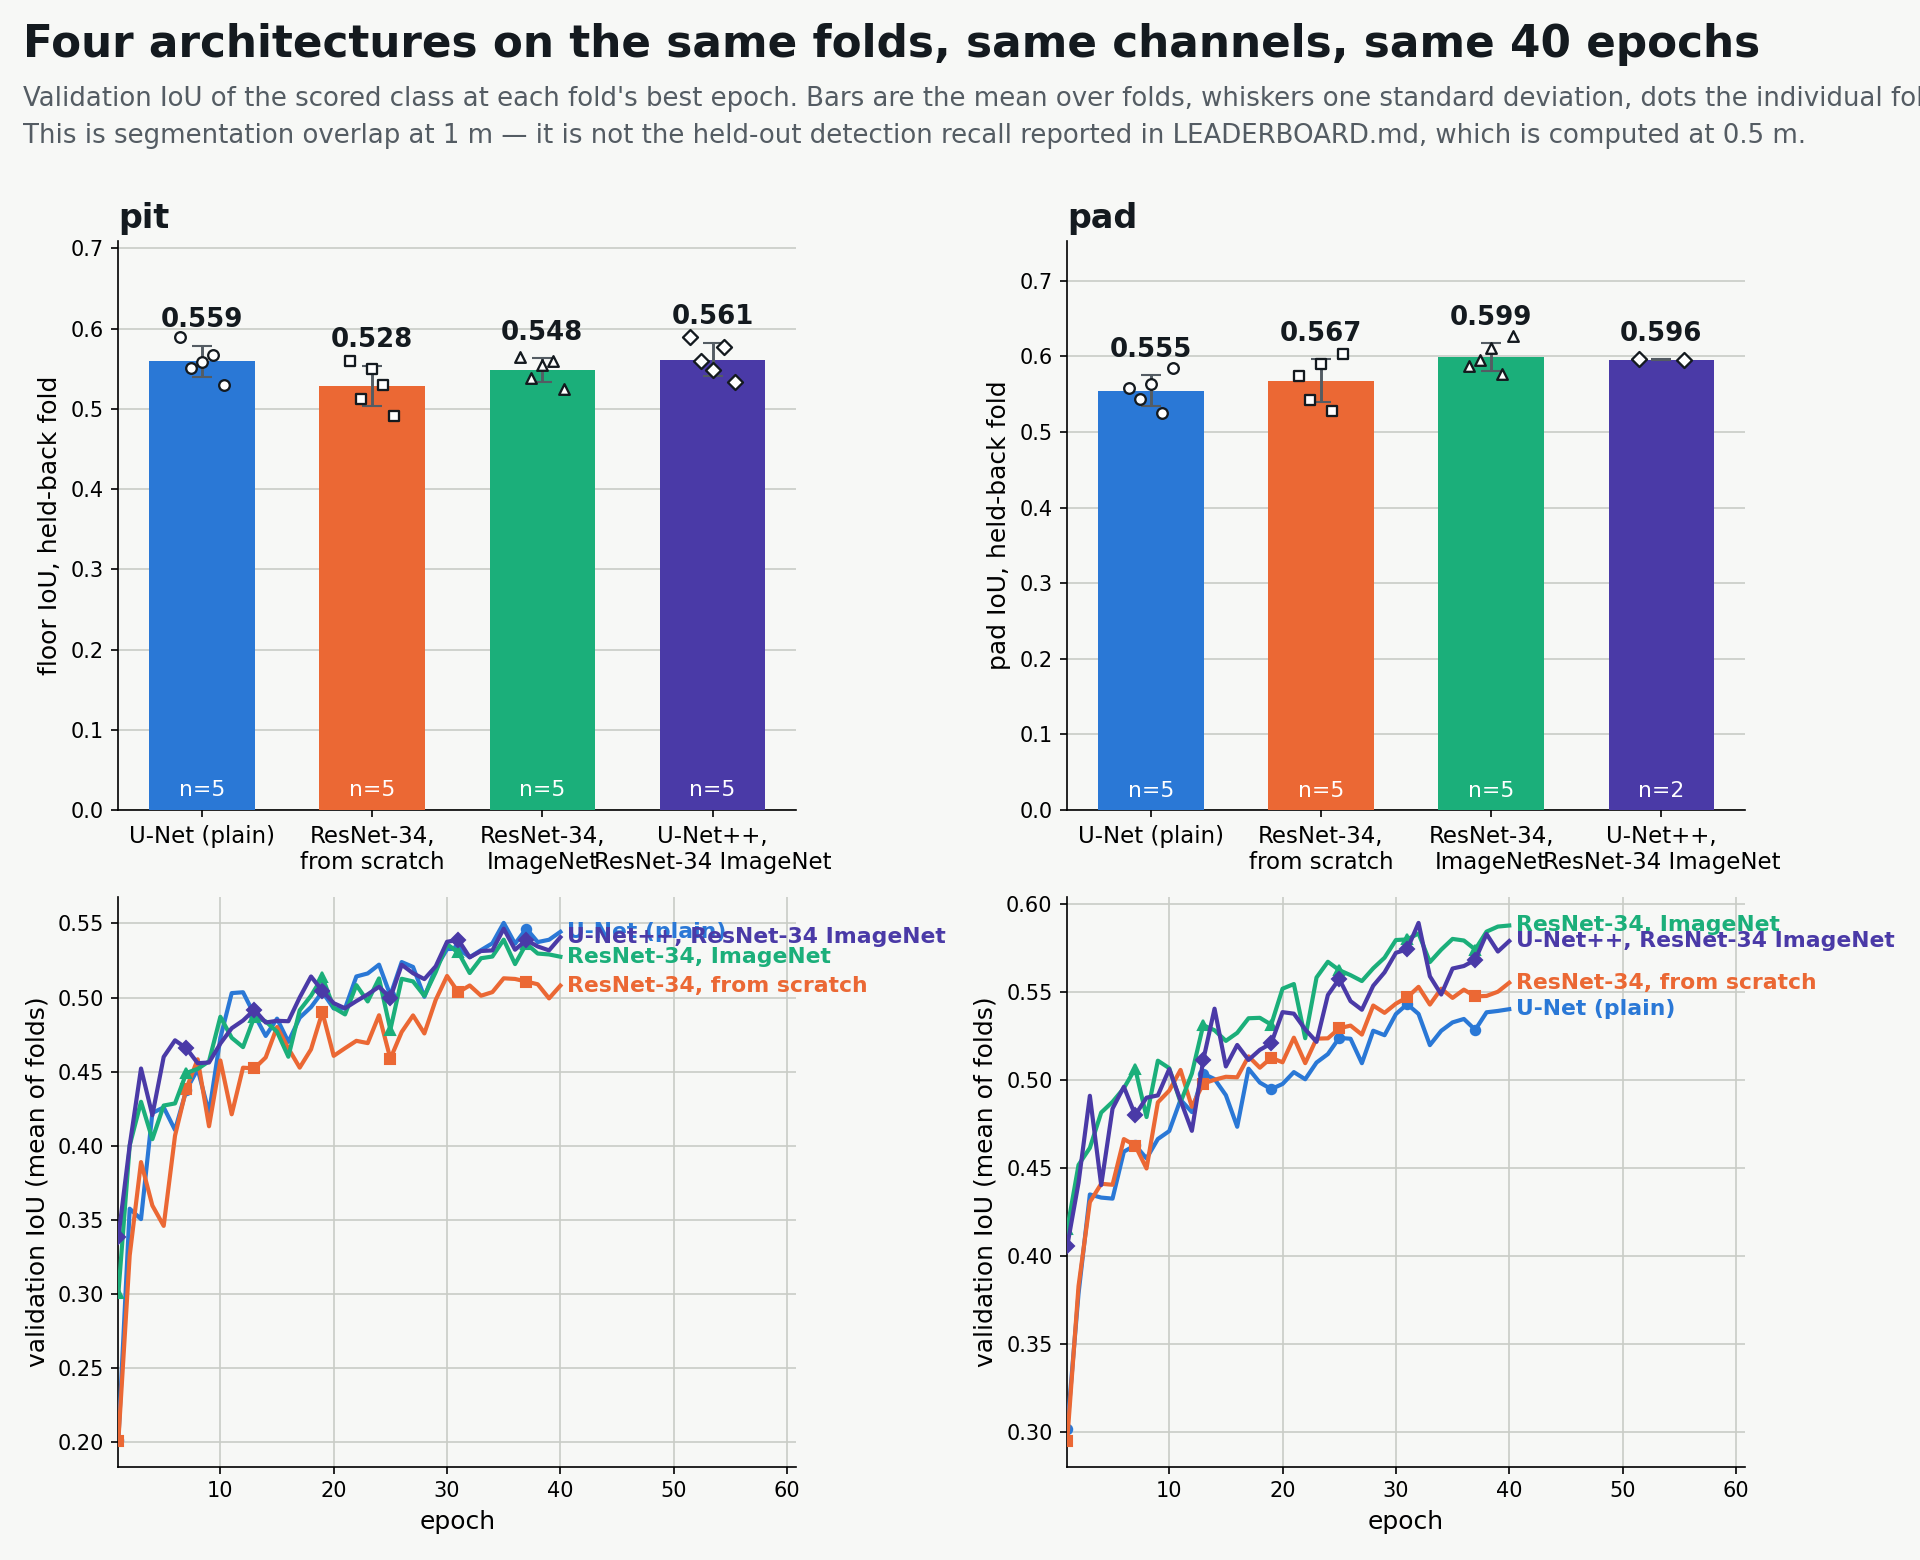
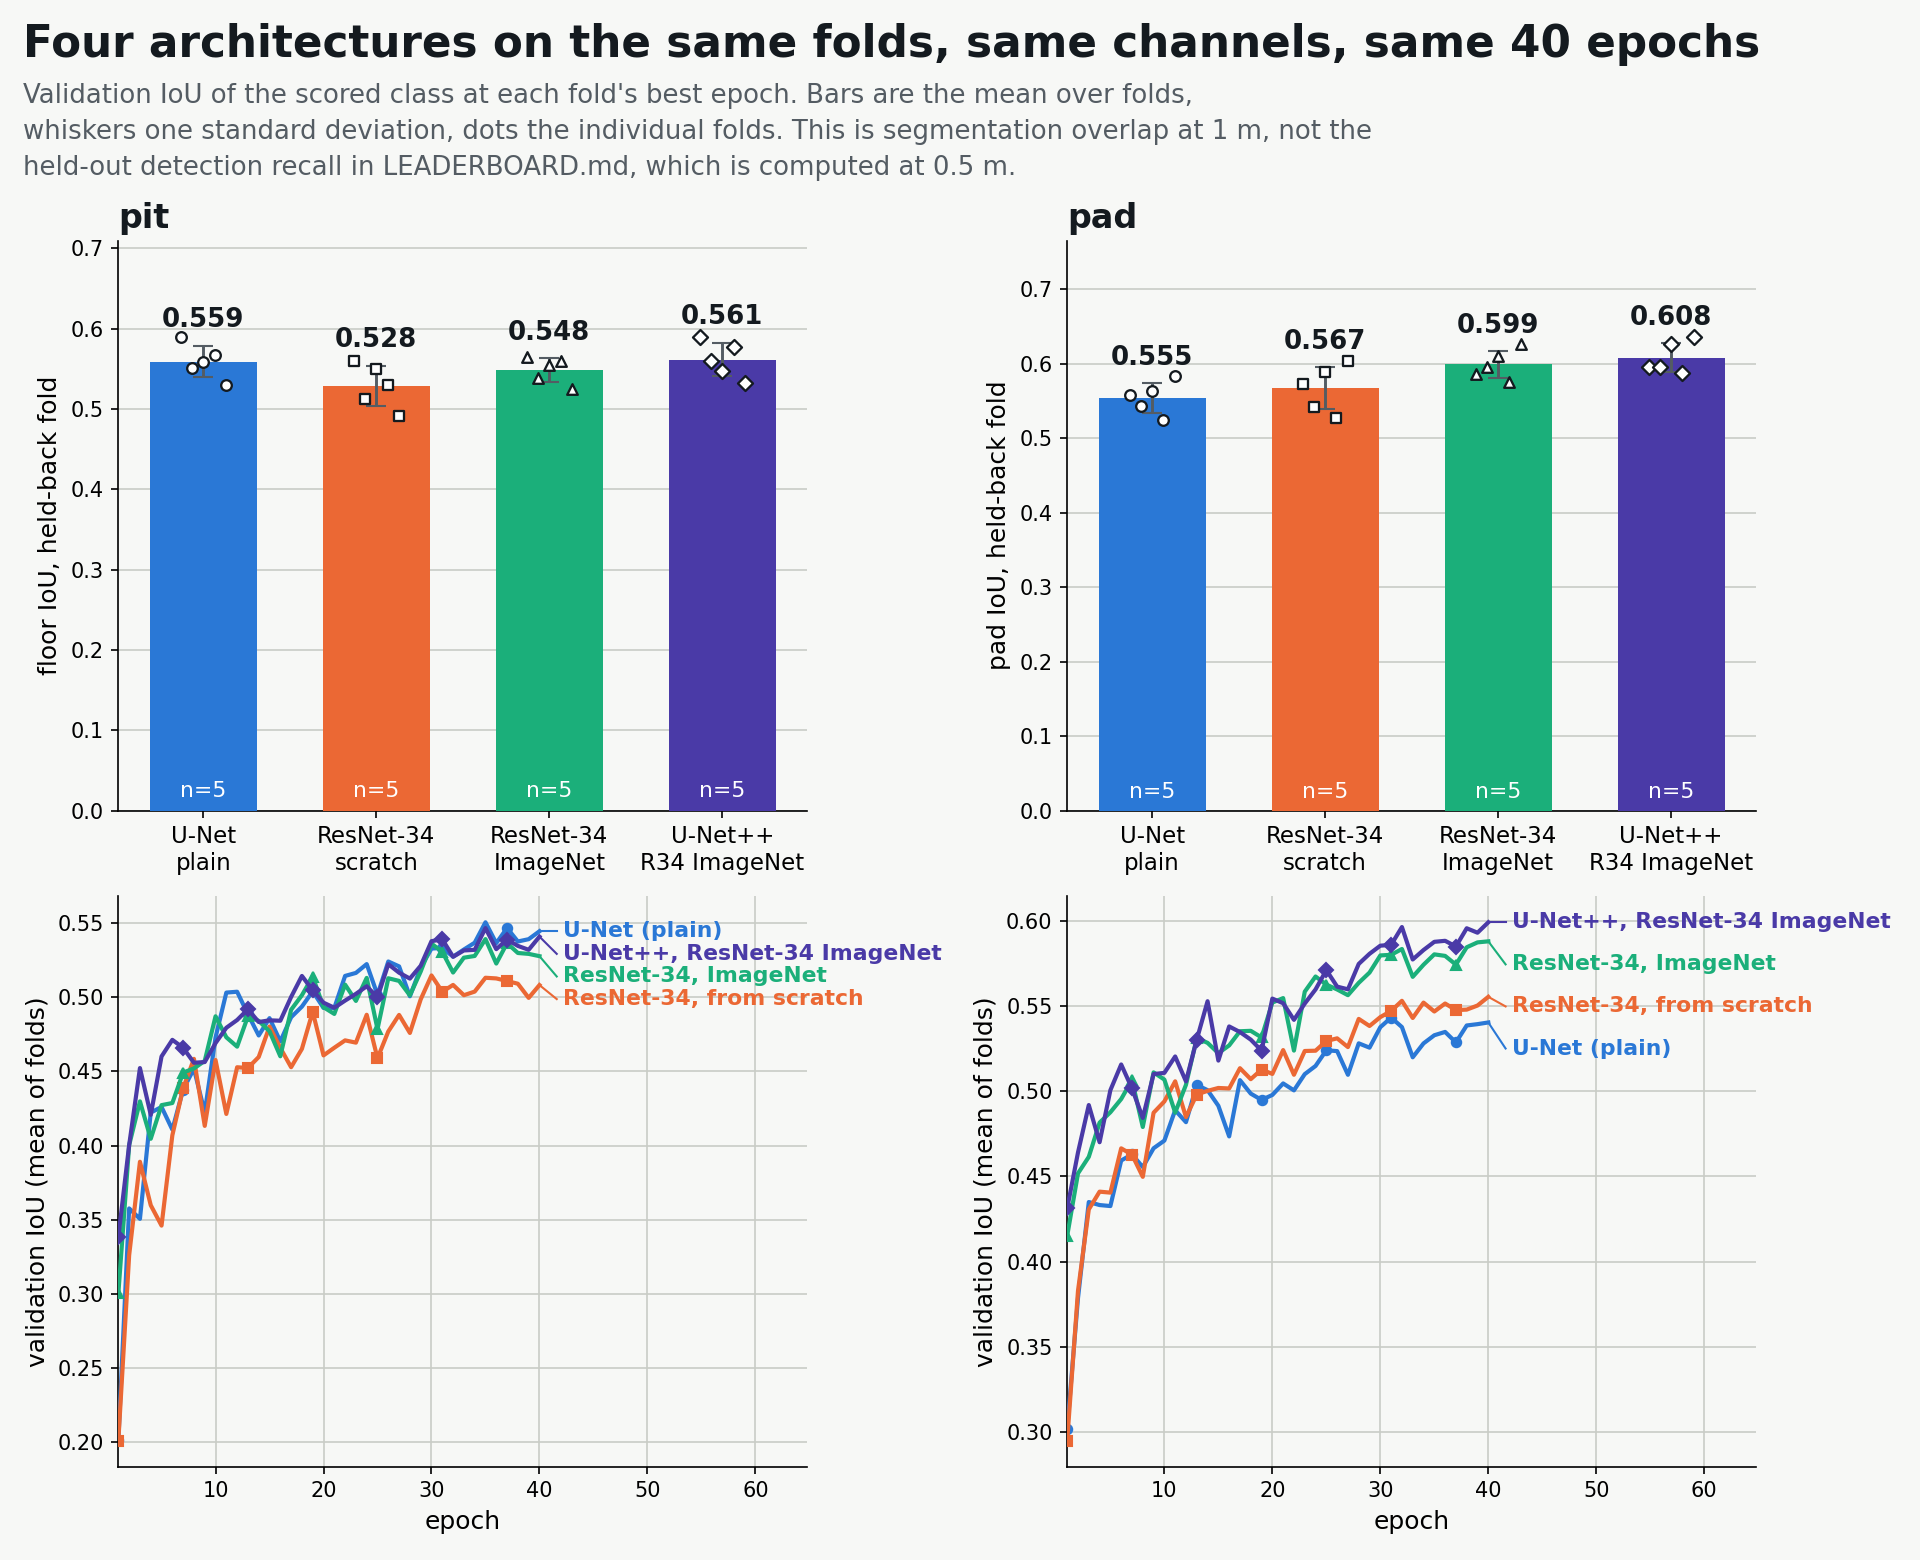
arch compare: the pad row finishes, and the answer splits by target
The three pad/unetpp folds that died to the OOM are retrained (0.626 / 0.587 /
0.636), so all four architectures now have five folds on both targets.

Adding the end-to-end comparison changed the conclusion. Each rung of the ladder
is still inside its own noise, but three same-signed steps add up:

  pit  0.559 -> 0.561   +0.002  (+0.1 sd)  within noise
  pad  0.555 -> 0.608   +0.054  (+1.9 sd)  suggestive

So architecture is irrelevant for pits and is not irrelevant for pads. Reporting
only the per-rung deltas would have hidden that, which is why the aggregator now
computes both.

On pad, every unetpp_r34_imagenet fold (0.587-0.636) beats every plain U-Net
fold (0.524-0.584) bar one. That non-overlap is worth more than the sd
arithmetic; it still needs more seeds before it is a finding rather than a lead.

Figure fixes from looking at the render: the subtitle ran off the canvas, the x
tick labels collided, and two line labels overprinted in the pit panel.

diff --git a/notebooks/wellsight_v2/s5_eval/_aggregate_arch_compare_1m.py b/notebooks/wellsight_v2/s5_eval/_aggregate_arch_compare_1m.py
@@ -308,6 +308,25 @@ def main() -> int:
             print(f"  {t:10s} {what:24s} {d:+.3f}  (pooled sd {pooled_sd:.3f})"
                   f"  {verdict}")
 
+    # Each rung can sit inside the noise while the WHOLE ladder does not --
+    # three small same-signed steps add up. Reporting only the rungs would hide
+    # that, so the end-to-end change is computed too, against the same pooled sd.
+    print("\nend to end (plain U-Net -> the full stack)")
+    for t in TARGETS:
+        s = g[g.target == t]
+        a, b = s[s.arch == ARCHS[0]], s[s.arch == ARCHS[-1]]
+        if a.empty or b.empty:
+            continue
+        d = float(b.iou_mean.iloc[0] - a.iou_mean.iloc[0])
+        psd = float(np.hypot(a.iou_sd.iloc[0], b.iou_sd.iloc[0]))
+        n_sd = d / psd if psd else float("nan")
+        verdict = "within noise" if abs(n_sd) < 1.0 else \
+                  ("suggestive" if abs(n_sd) < 2.0 else "clear")
+        ladder.append(dict(target=t, step="END TO END", delta_iou=d,
+                           pooled_sd=psd, verdict=verdict))
+        print(f"  {t:10s} {'unet -> unetpp_r34_imagenet':24s} {d:+.3f}  "
+              f"(pooled sd {psd:.3f}, {n_sd:+.1f} sd)  {verdict}")
+
     pd.DataFrame(ladder).to_csv(OUTDIR / "arch_compare_ladder_9t_1m.csv",
                                 index=False)
 

diff --git a/docs/iterations/arch_compare_1m_four_architectures.md b/docs/iterations/arch_compare_1m_four_architectures.md
@@ -45,9 +45,9 @@ Nothing here should be quoted as a recall.
 | pad | U-Net (plain) | 7.8 M | 5 | 0.555 | 0.020 | 0.524 | 0.584 |
 | pad | ResNet-34, from scratch | 24.4 M | 5 | 0.567 | 0.028 | 0.528 | 0.604 |
 | pad | ResNet-34, ImageNet | 24.4 M | 5 | **0.599** | 0.018 | 0.576 | 0.627 |
-| pad | U-Net++, R34 ImageNet | 26.1 M | 5 | 0.596 | — | — | — |
+| pad | U-Net++, R34 ImageNet | 26.1 M | 5 | **0.608** | 0.019 | 0.587 | 0.636 |
 
-### The ladder
+### The ladder, one rung at a time
 
 | target | step | delta IoU | pooled sd | verdict |
 |---|---|---|---|---|
@@ -56,39 +56,57 @@ Nothing here should be quoted as a recall.
 | pit | dense skip connections | +0.013 | 0.025 | within noise |
 | pad | deeper encoder | +0.013 | 0.035 | within noise |
 | pad | ImageNet pretraining | +0.032 | 0.034 | within noise |
-| pad | dense skip connections | −0.004 | 0.018 | within noise |
+| pad | dense skip connections | +0.009 | 0.026 | within noise |
 
-**Every rung is smaller than the spread between folds of the same
-architecture.** Not one of the three changes survives its own noise.
+**No single rung survives its own noise.** But that is not the whole question —
+three small same-signed steps can add up while none of them is individually
+significant, and reporting only the rungs would hide it.
+
+### End to end
+
+| target | plain U-Net → full stack | delta | pooled sd | |
+|---|---|---|---|---|
+| pit | 0.559 → 0.561 | **+0.002** | 0.028 | +0.1 sd — within noise |
+| pad | 0.555 → 0.608 | **+0.054** | 0.028 | +1.9 sd — suggestive |
 
 ## Interpretation
 
-**Architecture is not the constraint.** A 26.1 M-parameter U-Net++ with a
-pretrained encoder scores 0.561 against a 7.8 M plain U-Net's 0.559 on pits. The
-gap is 0.002 against a fold-to-fold sd of 0.020 — it is nothing. Tripling the
-parameter count and adding ImageNet initialisation buys no measurable accuracy.
+**The two targets answer differently, and that is the result.**
 
-The leaderboard's standing claim that data is the bottleneck now has a
-controlled experiment behind it rather than an assertion.
+**For pits, architecture is irrelevant.** A 26.1 M-parameter U-Net++ with a
+pretrained encoder scores 0.561 against a 7.8 M plain U-Net's 0.559. The gap is
+0.002 against a fold sd of 0.020 — nothing. Tripling the parameter count and
+adding ImageNet initialisation buys no measurable accuracy. The leaderboard's
+standing claim that data is the bottleneck now has a controlled experiment
+behind it rather than an assertion, and it holds for the pit model.
+
+**For pads it is not nothing.** The full stack gains 0.054 IoU over the plain
+U-Net, about 1.9 sd. Each contributing step is individually inside the noise, so
+this is suggestive rather than established — but the direction is consistent
+across all three rungs and every one of the five folds of `unetpp_r34_imagenet`
+(0.587–0.636) lands above every one of the five plain U-Net folds bar one
+(0.524–0.584). That non-overlap is worth more than the sd arithmetic suggests.
+
+Why pads and not pits is a plausible story rather than a measured one: a pad is a
+wide textured clearing, which is closer to the kind of regional texture an
+ImageNet encoder has features for. A pit is a sub-metre depression whose signal
+is local relief, where a deeper encoder's larger receptive field buys little.
+Nothing here tests that explanation.
 
 **Two honest qualifications.**
 
-1. **Pretraining is the only step that looks like it might be real.** It is the
-   largest positive delta on both targets (+0.020 pit, +0.032 pad) and it is the
-   only step with the same sign on both. It still does not clear the noise on
-   five folds. If any of this is worth a follow-up, it is this rung — more folds
-   or more seeds would settle it, and nothing else here would.
-2. **The ImageNet encoder is fed a stack that looks nothing like a photograph.**
+1. **The ImageNet encoder is fed a stack that looks nothing like a photograph.**
    `smp` adapts the first convolution from 3 channels to 7 by repeating and
    rescaling. Whatever ImageNet features survive that on a DEM derivative stack
    is unknown. `r34_scratch` is in the table precisely so pretraining is measured
    rather than assumed, and on pit the pretrained model still fails to reach the
    plain U-Net.
+2. **The pad gain costs 92 GPU-minutes against the plain U-Net's 65**, and 3.3×
+   the parameters, for a result that is suggestive at five folds.
 
-**Keep the plain U-Net.** It ties or wins on pit, trains fastest, and is a third
-the size. On pad the pretrained ResNet-34 leads by 0.044, which is the largest
-single gap in the table — the one place a follow-up could be justified, and it is
-still 1.3 sd.
+**Recommendation: keep the plain U-Net for pit, and re-run pad with more seeds.**
+The pit answer is settled. The pad answer is the one live lead in this table, and
+it needs folds or seeds, not a new architecture.
 
 ## What went wrong, and what it cost
 

diff --git a/docs/iterations/LEADERBOARD.md b/docs/iterations/LEADERBOARD.md
@@ -370,6 +370,46 @@ only the label raster changed (+19 km of previously-unlabelled road, mostly fain
 than any architecture change in the 2026-07 sweep. **Every sweep variant above was
 trained on the same stale labels** and should be re-run.
 
+> **That "more than any architecture change" claim was tested directly on
+> 2026-09-19 and it holds for pit, not for pad.** See the section below.
+
+## Architecture comparison, 1 m — four networks on identical folds (2026-09-19)
+
+Same folds, same 7 channels, same FocalCE, same 40 epochs / batch 8 / lr 1e-3.
+Each rung of the ladder changes exactly one thing. The score is **validation IoU
+of the target class at each fold's best epoch**, with the held-out fold excluded
+from its own epoch selection (inner val is fold `(k+1) % 5`).
+
+**These are segmentation IoU at 1 m. They are NOT the held-out detection recall
+used everywhere else on this page, which is computed at 0.5 m. Do not compare a
+number in this table to a number in any other table here.**
+
+| target | architecture | params | folds | IoU | sd | min–max |
+|---|---|---|---|---|---|---|
+| pit | U-Net (plain) | 7.8 M | 5 | 0.559 | 0.020 | 0.529–0.589 |
+| pit | ResNet-34, scratch | 24.4 M | 5 | 0.528 | 0.025 | 0.491–0.560 |
+| pit | ResNet-34, ImageNet | 24.4 M | 5 | 0.548 | 0.015 | 0.524–0.565 |
+| pit | U-Net++, R34 ImageNet | 26.1 M | 5 | **0.561** | 0.020 | 0.533–0.590 |
+| pad | U-Net (plain) | 7.8 M | 5 | 0.555 | 0.020 | 0.524–0.584 |
+| pad | ResNet-34, scratch | 24.4 M | 5 | 0.567 | 0.028 | 0.528–0.604 |
+| pad | ResNet-34, ImageNet | 24.4 M | 5 | 0.599 | 0.018 | 0.576–0.627 |
+| pad | U-Net++, R34 ImageNet | 26.1 M | 5 | **0.608** | 0.019 | 0.587–0.636 |
+
+End to end, plain U-Net → full stack: **pit +0.002 (+0.1 sd, within noise)**,
+**pad +0.054 (+1.9 sd, suggestive)**. No individual rung clears its own noise on
+either target.
+
+**Pit: architecture is not the constraint.** 3.3× the parameters and ImageNet
+initialisation buy 0.002 IoU against a fold sd of 0.020. **Pad: there is
+something here** — every `unetpp_r34_imagenet` fold beats every plain U-Net fold
+but one, which is worth more than the sd arithmetic alone suggests. It needs more
+seeds before it is a finding.
+
+`roaddrain` has **no row**: that arm ran 1 of 40 epochs on one fold and stopped.
+
+Write-up: `docs/iterations/arch_compare_1m_four_architectures.md`.
+Numbers: `data/9t/results/arch_compare_1m/arch_compare_summary_9t_1m.csv`.
+
 Max recovery: `sweep_ENSEMBLE_max` at thr 0.30 → **0.909** completeness / 0.651 correctness.
 
 **Vector extraction (2026-07-02, honest protocol):** `_road_optimize.py` cleaning
